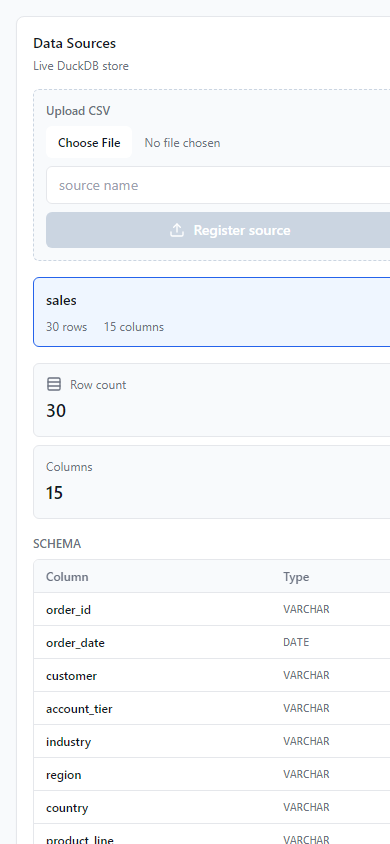
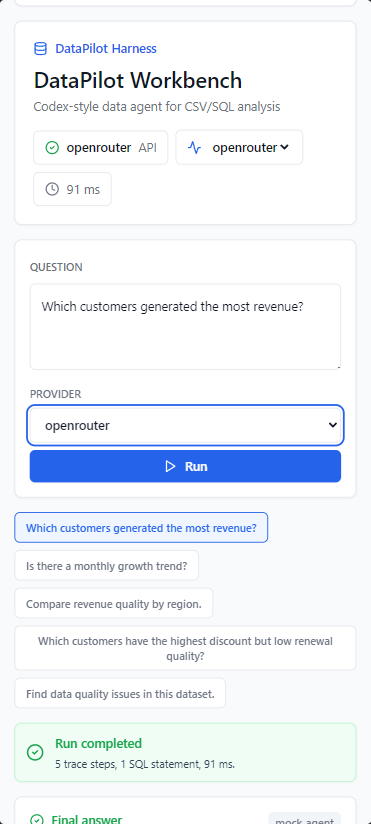
Update README screenshots

diff --git a/README.md b/README.md
@@ -1,17 +1,17 @@
 # datapilot-harness
 
-`datapilot-harness` is a compact Codex-style data agent for CSV and SQL analysis. It plans, chooses typed actions, executes safe DuckDB queries, records observations, and produces grounded final answers.
+`datapilot-harness` is a compact Codex-style data agent for CSV and SQL analysis. It plans the analysis, chooses typed actions, executes safe DuckDB queries, records observations, and returns grounded final answers through both a CLI and a polished web workbench.
 
-The project now has two modes:
+The project has two modes:
 
 - CLI mode for inspecting the core agent harness from a terminal.
-- Web UI mode for a screenshot-friendly DataPilot Workbench with sources, generated SQL, result tables, and an observable agent trace.
+- Web UI mode for DataPilot Workbench, a React interface with sources, generated SQL, result tables, and an observable agent trace.
 
 ## Product Positioning
 
-DataPilot Harness is a Codex-style data agent for CSV/SQL analysis with typed actions, safe DuckDB execution, and observable traces.
+DataPilot Harness is a portfolio-ready demo of practical agent engineering: typed actions, safe SQL execution, traceable reasoning steps, and a frontend that makes each run inspectable.
 
-It is designed as a portfolio-grade demo of agent engineering without LangChain, LlamaIndex, LangGraph, embeddings, vector databases, auth, or multi-user persistence.
+The stack is intentionally small and explicit. It avoids LangChain, LlamaIndex, LangGraph, embeddings, vector databases, auth, and multi-user persistence so the core harness, validation, and trace flow stay easy to review.
 
 ## Quick Start
 
@@ -126,13 +126,9 @@ If the API is unavailable, the frontend loads `frontend/src/demo/staticRun.ts` s
 
 ## Screenshots
 
-Design concept:
+Desktop workbench:
 
-![DataPilot Workbench concept](docs/assets/datapilot-workbench-concept.png)
-
-Rendered workbench screenshot:
-
-![DataPilot Workbench screenshot](docs/assets/datapilot-workbench-screenshot.png)
+![DataPilot Workbench desktop screenshot](docs/assets/datapilot-workbench-screenshot.png)
 
 ## Architecture
 